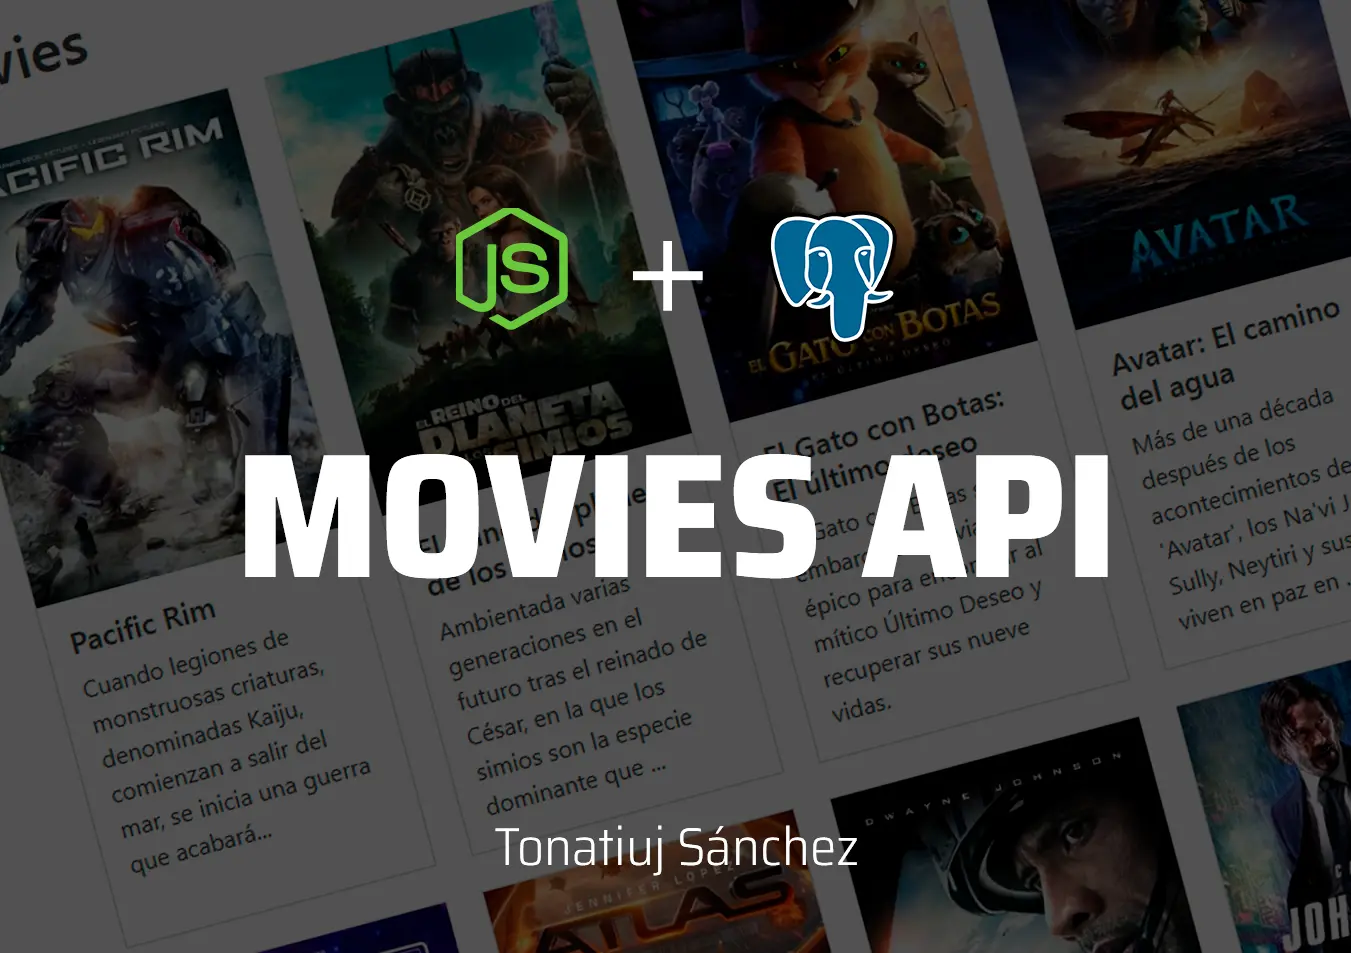
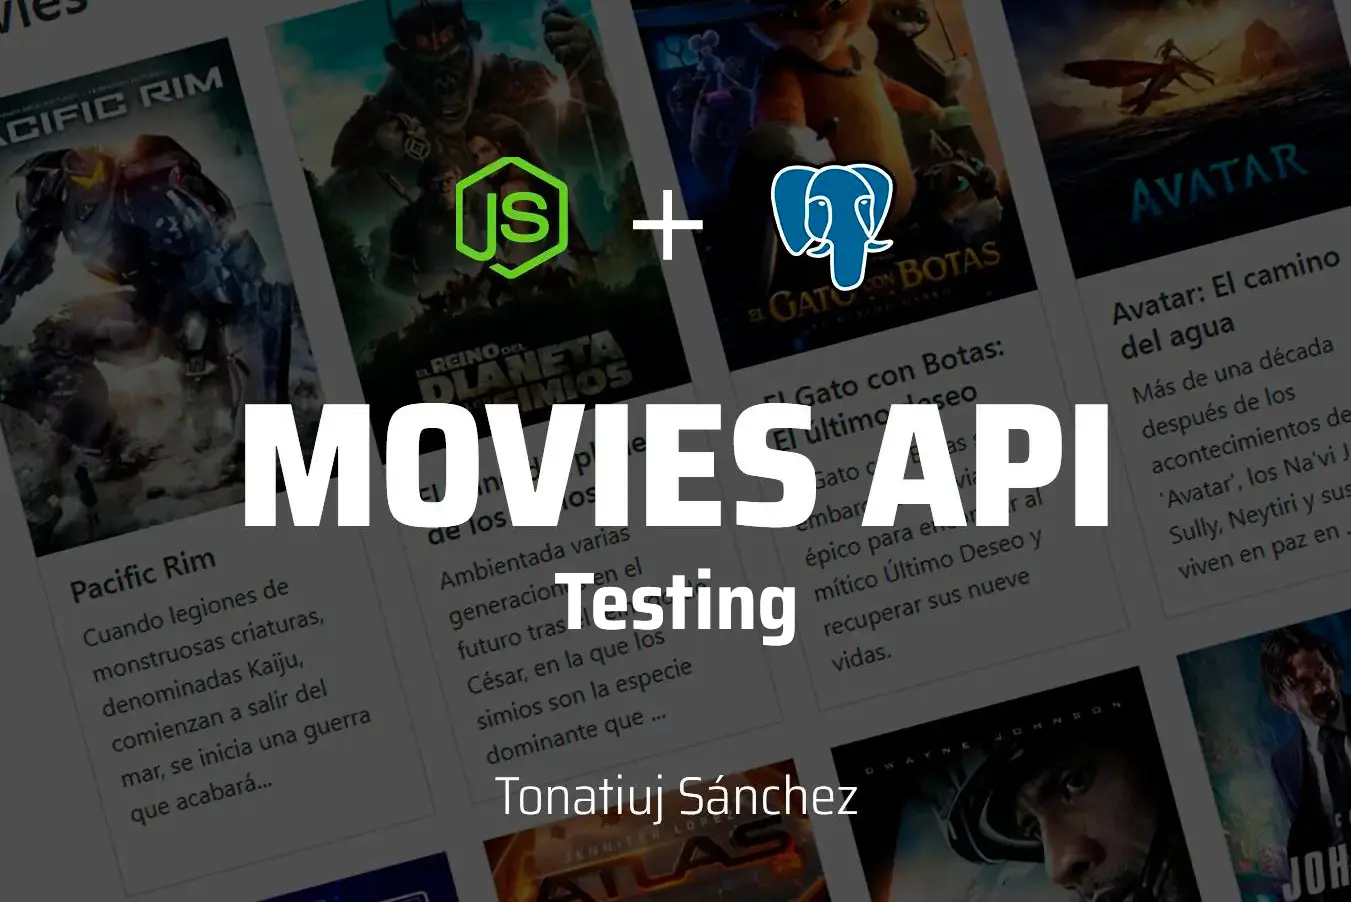
README.md actualizado

diff --git a/README.md b/README.md
@@ -1,12 +1,12 @@
-# MOVIES API
+# MOVIES API + TESTING
 
-Este proyecto es una API RESTful para una aplicación de películas que permite gestionar géneros, actores, directores y películas a través de varios endpoints.
+Este proyecto es una API RESTful para una aplicación de películas que permite gestionar géneros, actores, directores y películas a través de varios endpoints a los cuales a todos se le implemento testing son Jest y Supertest.
 
 [![API de Películas](/public/movies_api.webp)](https://movies-ts.netlify.app)
 
 ## Descripción
 
-La API permite gestionar gestionar los recursos mediante los siguientes endpoints:
+Endpoints a los cuales de le implementaron testing:
 
 ### movies
 - **GET /movies**: Obtiene todos las películas.
@@ -14,6 +14,9 @@ La API permite gestionar gestionar los recursos mediante los siguientes endpoint
 - **GET /movies/:id**: Obtiene una película por ID.
 - **PUT /movies/:id**: Actualiza una película por ID.
 - **DELETE /movies/:id**: Elimina una película por ID.
+- **POST /movies/:id/actors**: Asignar actores a una película.
+- **POST /movies/:id/directors**: Asignar directores a una película.
+- **POST /movies/:id/genres**: Asignar géneros a una película.
 
 ### genres
 - **GET /genres**: Obtiene todos los géneros.
@@ -42,8 +45,10 @@ La API permite gestionar gestionar los recursos mediante los siguientes endpoint
 - Express
 - PostgreSQL
 - Sequelize
+- jest
+- supertest
 
-## Ejecución local
+## Ejecución local y testing
 
 __Requisitos Previos__
 
@@ -56,12 +61,12 @@ Para ejecutar este proyecto localmente, sigue estos pasos:
 
 1. **Clona el repositorio:** Ejecuta el siguiente comando en tu terminal para clonar este repositorio en tu máquina local:
 ```
-git clone https://github.com/tonatiujsanchez/movies-backend.git
+git clone https://github.com/tonatiujsanchez/movies-backend-testing.git
 ```
 
 2. **Abre el proyecto:** Navega hasta la carpeta del proyecto clonado
 ```
-cd movies-backend
+cd movies-backend-testing
 ```
 
 3. **Instala la dependencias:** Ejecuta el siguiente comando para instalar los node_modules:
@@ -90,15 +95,10 @@ DATABASE_URL=postgres://postgres:<password>@127.0.0.1:5432/<nombre_db>
 npm run dev
 ```
 
-7. **Explora:** ¡Explora y diviértete creando, editando y eliminando usuarios!
-
-
-## URL's
-
-- [Ducumentación de la API en Postman](https://documenter.getpostman.com/view/3730299/2sA3XLGQHJ)
-- [API desplegada en render.com](https://movies-ts.onrender.com)
-- [Frontend desplegado en Netlify](https://movies-ts.netlify.app)
-- [Repositorio del Frontend](https://github.com/tonatiujsanchez/movies-frontend.git)
+**Para ejecutar los tests:** Termina el servidor local y ejecuta el siguiente comando
+```
+npm run test
+```
 
 
 
